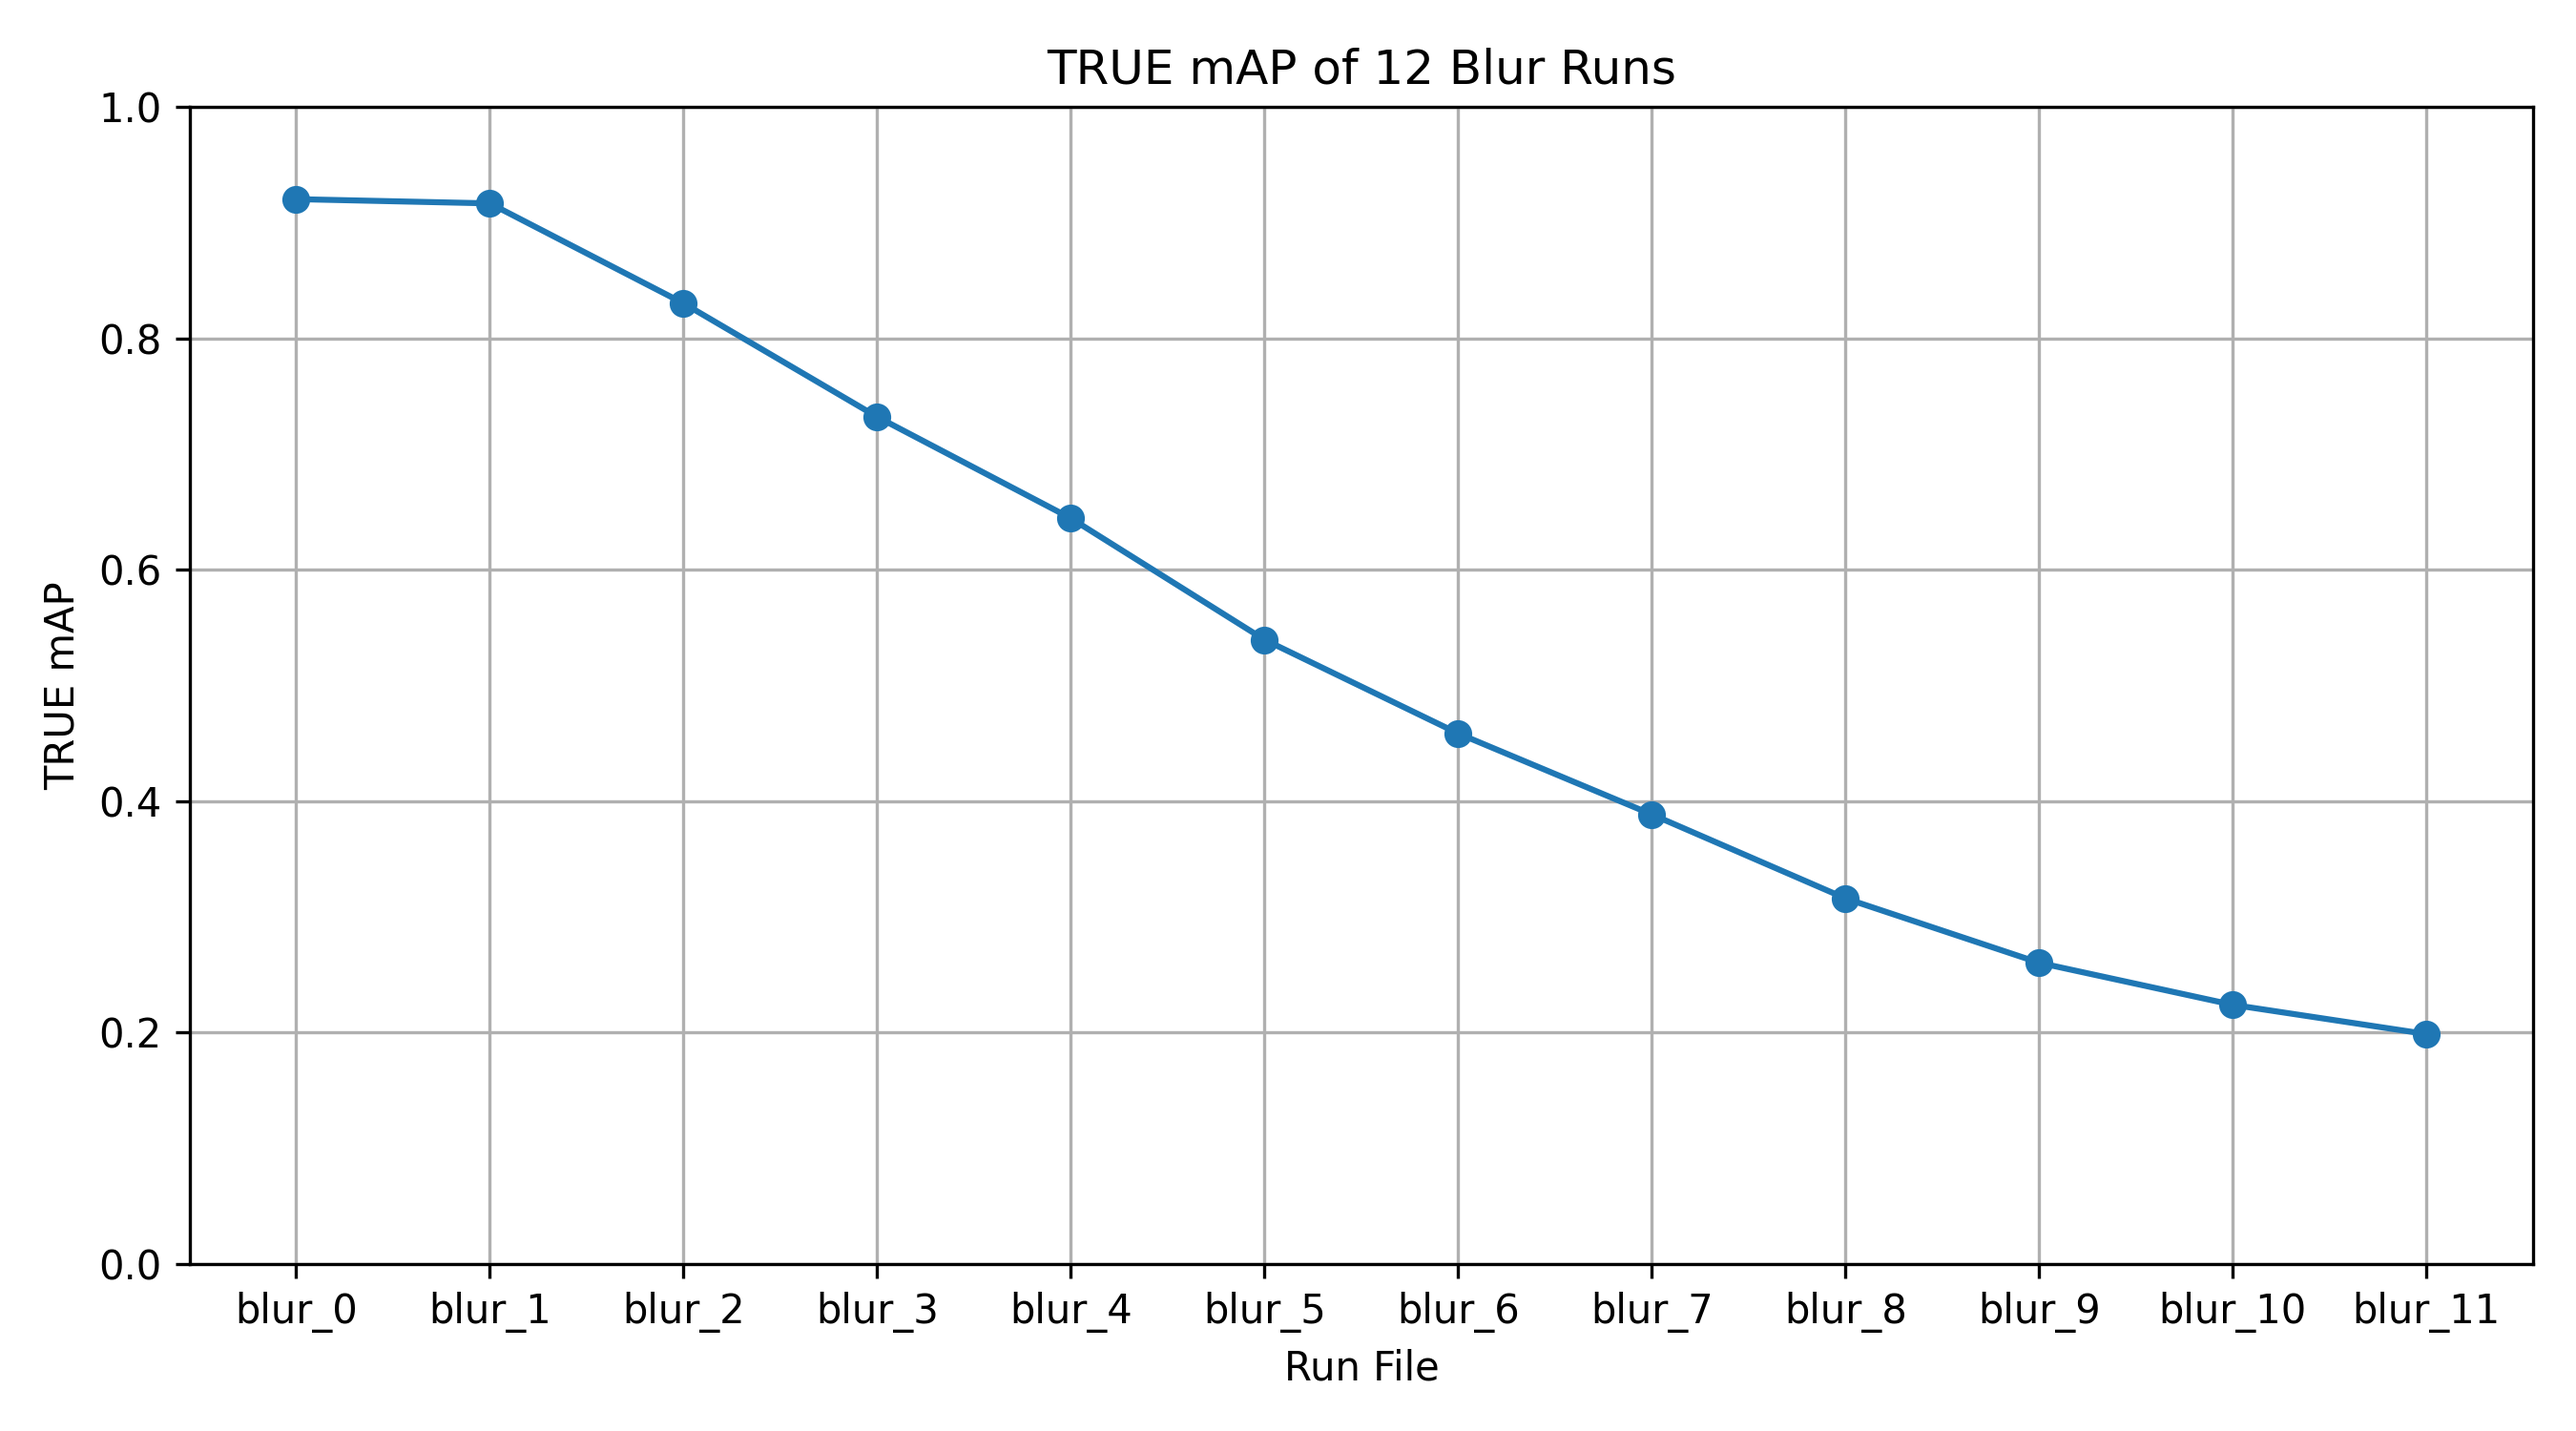
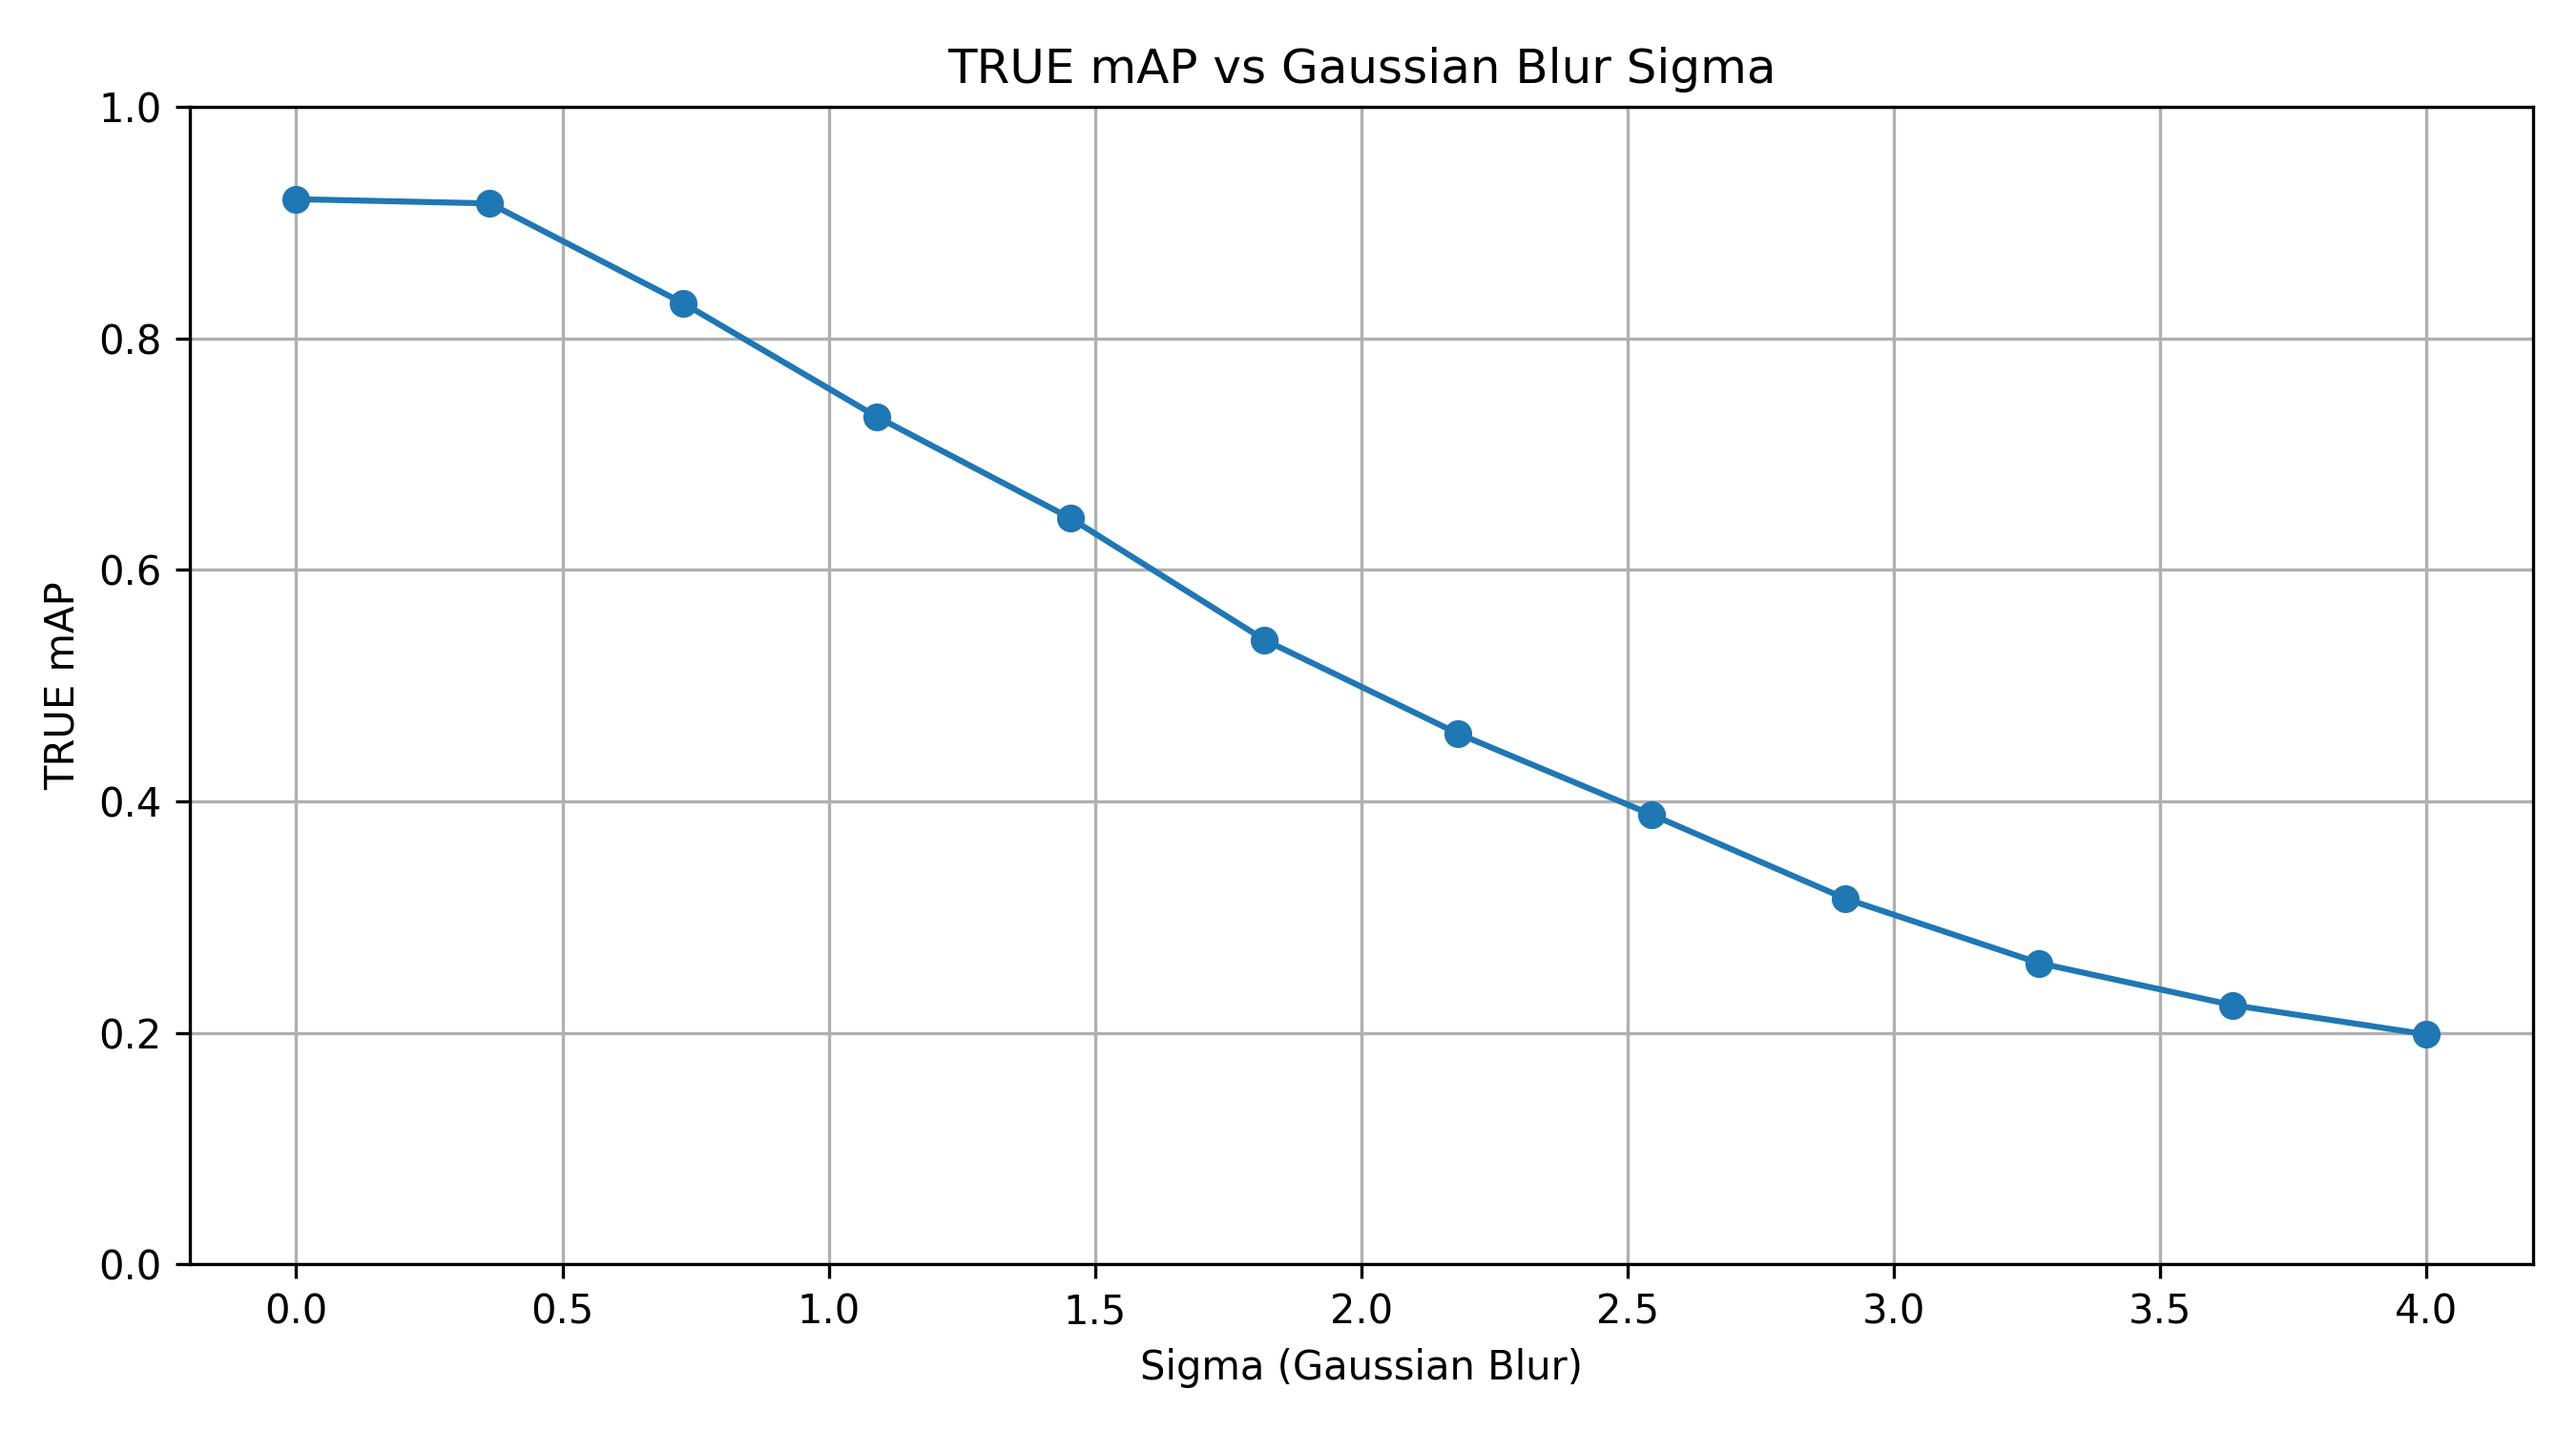
mAP plot update

diff --git a/heather.py b/heather.py
@@ -3,31 +3,35 @@ import os
 import cv2
 import numpy as np
 from tqdm import tqdm
+from PIL import Image
 
 
 # ===== CONFIG =====
-test_csv = './dataset_v2/test.csv'
-image_root = './dataset_v2/root/test'
-output_root = './blurred_test_images'
-kernel_sizes = [0, 11, 21, 31, 41]   # 0 = original
-level_names = ['Original', 'Blur1', 'Blur2', 'Blur3', 'Blur4']
+train_csv = './dataset_v2/train.csv'
+image_root = './dataset_v2/root/train'
+output_root = './blurred_train_images_12'
+os.makedirs(output_root, exist_ok=True)
+
+
+# ===== SIGMA BLUR SETTINGS =====
+num_levels = 12                 # blur_0 → blur_11
+sigmas = np.linspace(0.0, 4.0, num_levels)
+
+
+# ===== METADATA STORAGE =====
+metadata_records = []
 
 
 # ===== FUNCTIONS =====
 def crop_polygon(image, coords):
-    """
-    Crop an image based on 8 polygon coordinates (4 points).
-    Returns cropped region with alpha mask applied to polygon shape.
-    """
     h, w = image.shape[:2]
     pts = np.array(coords, dtype=np.int32).reshape((4, 2))
-   
-    # Compute bounding box for polygon
+
+
     x_min, y_min = np.min(pts, axis=0)
     x_max, y_max = np.max(pts, axis=0)
 
 
-    # Clip to image dimensions
     x_min, y_min = max(0, x_min), max(0, y_min)
     x_max, y_max = min(w, x_max), min(h, y_max)
 
@@ -36,97 +40,125 @@ def crop_polygon(image, coords):
         return None
 
 
-    # Crop region of interest
     cropped = image[y_min:y_max, x_min:x_max]
-   
-    # Adjust polygon coordinates relative to crop
     pts_cropped = pts - np.array([x_min, y_min])
-   
-    # Create mask for polygon
+
+
     mask = np.zeros(cropped.shape[:2], dtype=np.uint8)
     cv2.fillPoly(mask, [pts_cropped], 255)
-   
-    # Apply mask to crop
     result = cv2.bitwise_and(cropped, cropped, mask=mask)
     return result
 
 
-# ===== MAIN FUNCTION =====
+
+
+# ===== MAIN =====
 def main():
-    df = pd.read_csv(test_csv)
-    df.columns = df.columns.str.strip()  # clean up whitespace
+    df = pd.read_csv(train_csv)
+    df.columns = df.columns.str.strip()
 
 
-    # Correct coordinate column names
     coord_cols = ['p1_x', 'p_1y', 'p2_x', 'p2_y', 'p3_x', 'p3_y', 'p4_x', 'p4_y']
     for col in coord_cols:
         if col not in df.columns:
             raise ValueError(f"CSV missing column: {col}")
 
 
-    # Ensure output directories exist
-    os.makedirs(output_root, exist_ok=True)
-    for name in level_names:
-        os.makedirs(os.path.join(output_root, name), exist_ok=True)
+    # Pre-create blur folders
+    for i in range(num_levels):
+        os.makedirs(os.path.join(output_root, f"blur_{i}"), exist_ok=True)
 
 
-    # Cache loaded images (for images with multiple annotations)
     image_cache = {}
 
 
-    for idx, row in tqdm(df.iterrows(), total=len(df), desc="Cropping & blurring test objects"):
+    for idx, row in tqdm(df.iterrows(), total=len(df), desc="Cropping and blurring images"):
+
+
         image_id = str(int(row['image_id']))
-        tag_id = str(row['tag_id']) if 'tag_id' in df.columns else f"{idx}"
+        tag_id = str(row['tag_id'])
 
 
-        # Try both jpg and tiff
-        image_path_jpg = os.path.join(image_root, f"{image_id}.jpg")
-        image_path_tiff = os.path.join(image_root, f"{image_id}.tiff")
-
-
+        # ---------- Robust image loading ----------
         if image_id not in image_cache:
-            if os.path.exists(image_path_jpg):
-                image = cv2.imread(image_path_jpg)
-            elif os.path.exists(image_path_tiff):
-                image = cv2.imread(image_path_tiff)
-            else:
-                print(f"⚠ Image not found for ID {image_id}")
+            loaded = False
+            for ext in ['.jpg', '.jpeg', '.tif', '.tiff', '.png']:
+                image_path = os.path.join(image_root, f"{image_id}{ext}")
+                if not os.path.exists(image_path):
+                    continue
+
+
+                img = cv2.imread(image_path)
+                if img is None:
+                    try:
+                        pil_img = Image.open(image_path).convert("RGB")
+                        img = cv2.cvtColor(np.array(pil_img), cv2.COLOR_RGB2BGR)
+                    except:
+                        continue
+
+
+                image_cache[image_id] = img
+                loaded = True
+                break
+
+
+            if not loaded:
+                print(f"⚠ Could not load image {image_id}")
                 continue
-            image_cache[image_id] = image
-        else:
-            image = image_cache[image_id]
 
 
-        if image is None:
-            continue
+        image = image_cache[image_id]
 
 
-        # Extract polygon coordinates
+        # ---------- Crop the vehicle ----------
         coords = row[coord_cols].astype(float).values
         cropped = crop_polygon(image, coords)
         if cropped is None or cropped.size == 0:
             continue
 
 
-        # Apply blur levels
-        for ksize, name in zip(kernel_sizes, level_names):
-            if ksize == 0:
+        # ---------- Apply sigma blur levels ----------
+        for i, sigma in enumerate(sigmas):
+
+
+            if sigma == 0:
                 blurred = cropped
             else:
-                blurred = cv2.GaussianBlur(cropped, (ksize, ksize), 0)
+                blurred = cv2.GaussianBlur(cropped, (0, 0), sigmaX=sigma, sigmaY=sigma)
 
 
-            # Save crop per tag
-            out_filename = f"{image_id}_{tag_id}.png"
-            out_path = os.path.join(output_root, name, out_filename)
-            cv2.imwrite(out_path, blurred)
+            blur_folder = os.path.join(output_root, f"blur_{i}")
+            filename = f"{image_id}_{tag_id}.jpg"
+            save_path = os.path.join(blur_folder, filename)
 
 
-    print("\n✅ All test objects processed and saved with blur levels in:", output_root)
+            success = cv2.imwrite(save_path, blurred, [int(cv2.IMWRITE_JPEG_QUALITY), 95])
+            if not success:
+                print(f"⚠ Failed to save {save_path}")
+                continue
+
+
+            # Add metadata record
+            metadata_records.append({
+                "image_id": image_id,
+                "tag_id": tag_id,
+                "filename": filename,
+                "blur_level": i,
+                "sigma": float(sigma),
+                "output_path": save_path
+            })
+
+
+    # ===== Save metadata =====
+    df_out = pd.DataFrame(metadata_records)
+    df_out.to_csv("processed_blurred_metadata.csv", index=False)
+
+
+    print("✅ Processing complete. Metadata saved to processed_blurred_metadata.csv")
+
+
 
 
 # ===== RUN =====
 if __name__ == "__main__":
     main()
-
-

diff --git a/results/true_mAP_graph.py b/results/true_mAP_graph.py
@@ -1,19 +1,20 @@
 import matplotlib.pyplot as plt
+import numpy as np
 
-# Filenames and corresponding TRUE mAP values
-file_labels = [
-    "blur_0", "blur_1", "blur_2", "blur_3", "blur_4", "blur_5",
-    "blur_6", "blur_7", "blur_8", "blur_9", "blur_10", "blur_11"
-]
+# Sigma values for 12 blur levels
+num_levels = 12
+sigmas = np.linspace(0.0, 4.0, num_levels)
+
+# Corresponding TRUE mAP values
 true_map = [
     0.920227, 0.916559, 0.830171, 0.732030, 0.644382, 0.539404,
     0.458399, 0.388370, 0.315836, 0.260169, 0.223833, 0.198565
 ]
 
 plt.figure(figsize=(9,5))
-plt.plot(file_labels, true_map, marker='o', linestyle='-')
-plt.title("TRUE mAP of 12 Blur Runs")
-plt.xlabel("Run File")
+plt.plot(sigmas, true_map, marker='o', linestyle='-')
+plt.title("TRUE mAP vs Gaussian Blur Sigma")
+plt.xlabel("Sigma (Gaussian Blur)")
 plt.ylabel("TRUE mAP")
 plt.ylim(0, 1)
 plt.grid(True)
